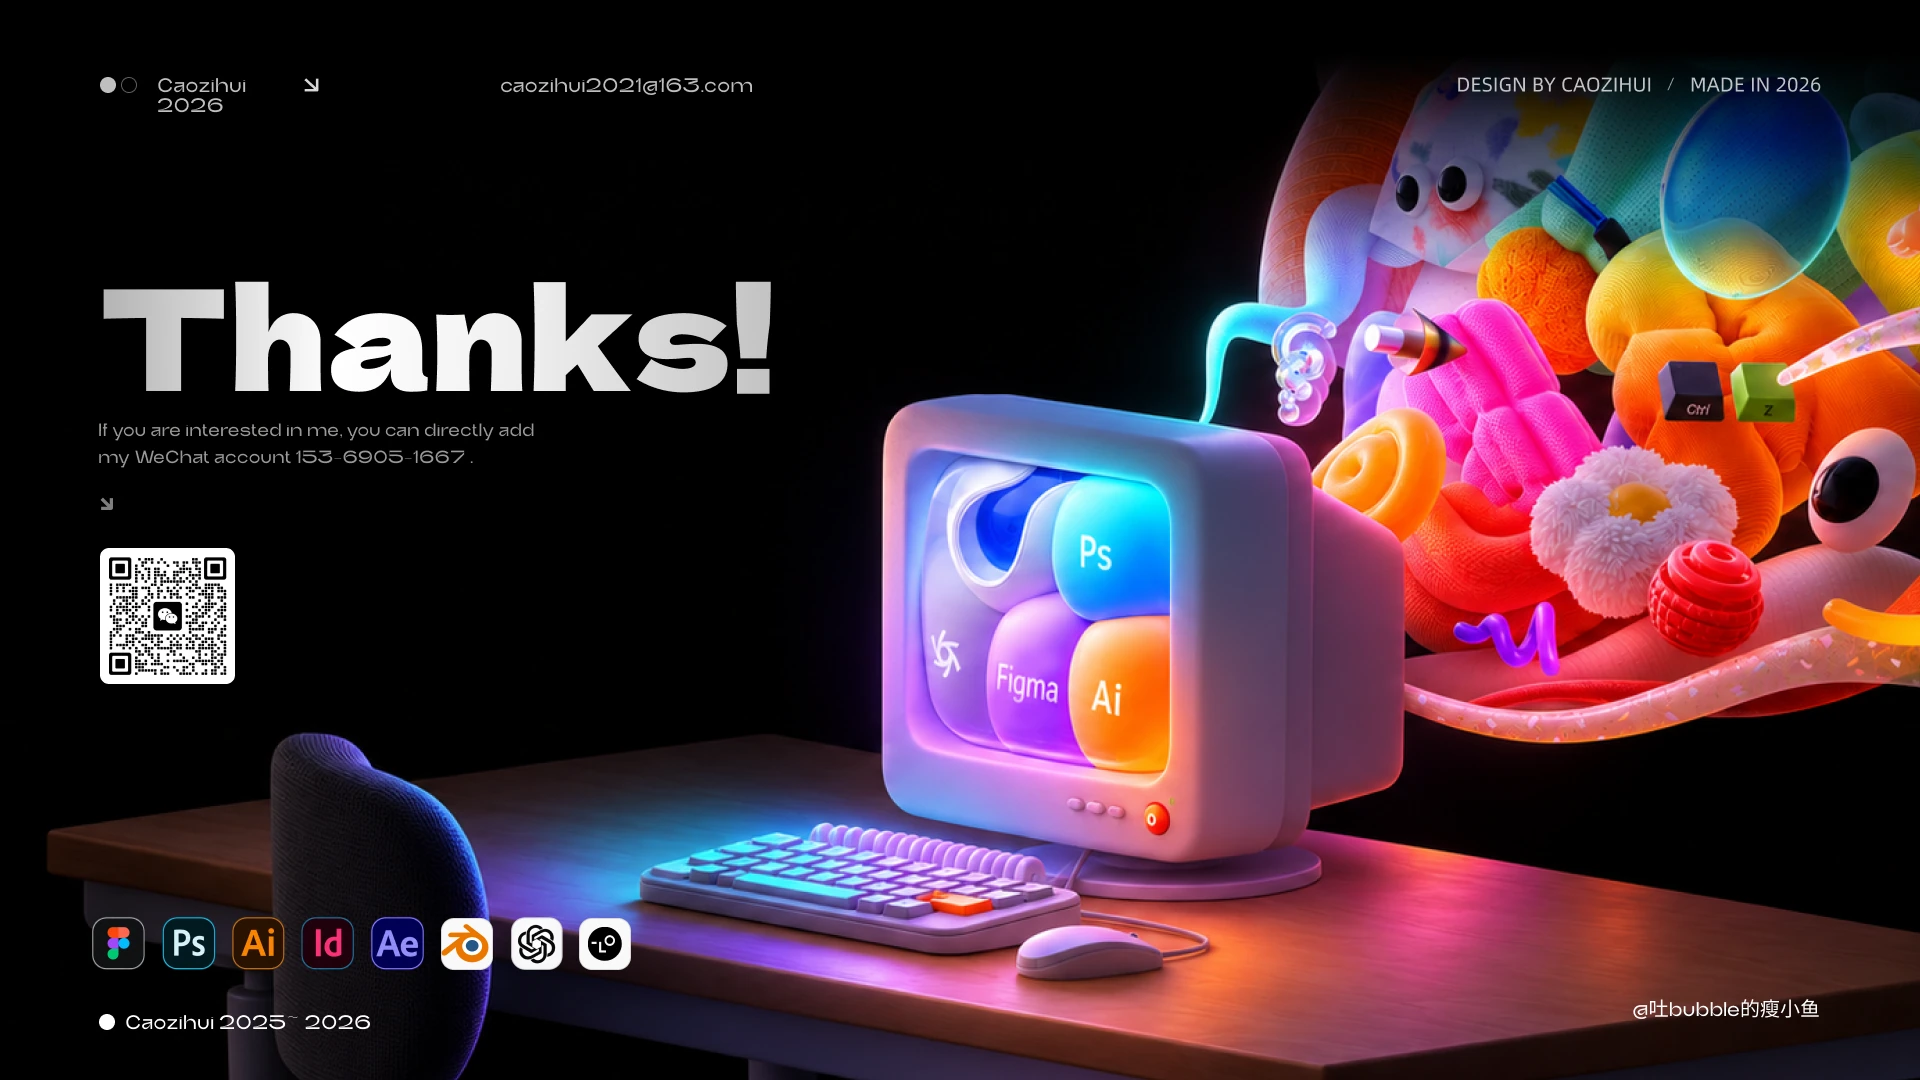
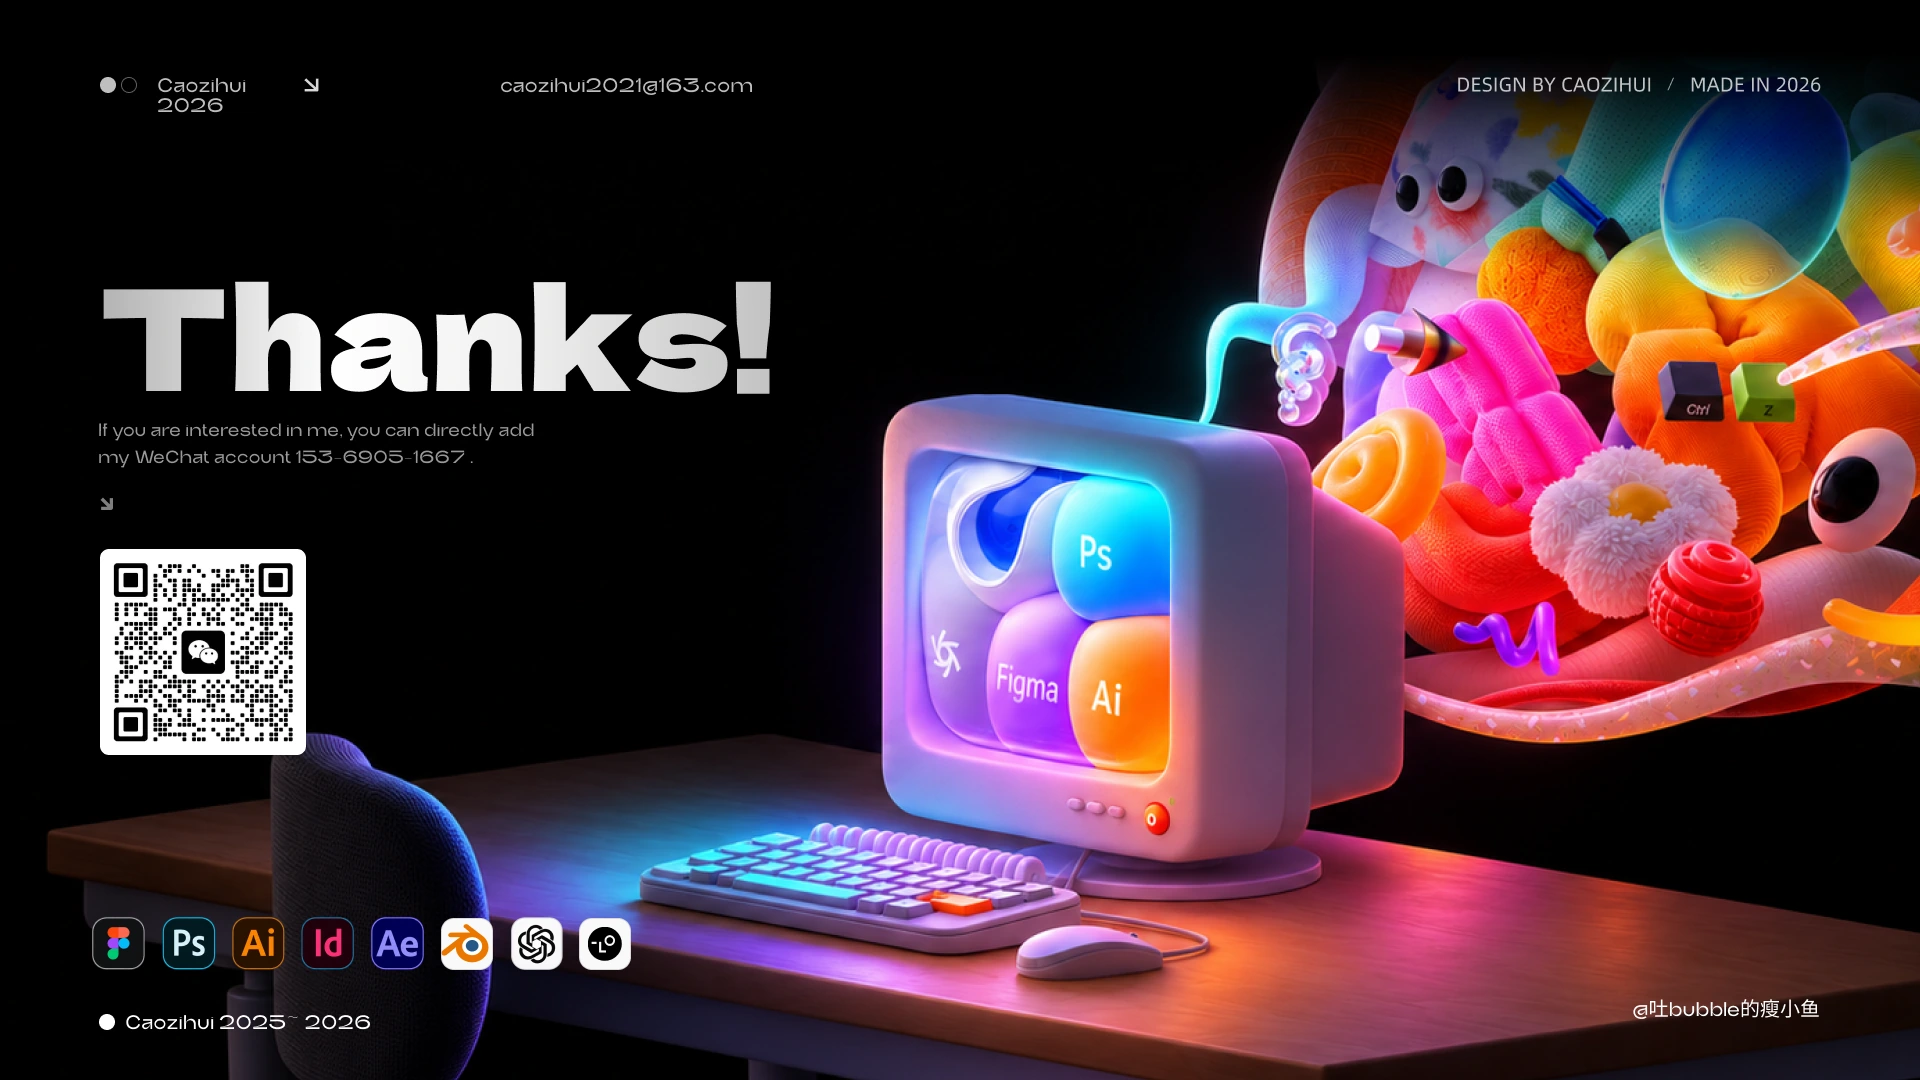
Link to the refreshed contact cover from the portfolio navigation

Changed region(s): [[0.0312, 0.4889, 0.1562, 0.7028]]

diff --git a/brand-portfolio-book.js b/brand-portfolio-book.js
@@ -1,6 +1,7 @@
 import { createMobileAbout } from './brand-mobile-about.js';
 
 const art = '/brand/portfolio-2026/';
+const release = new URL(import.meta.url).search;
 const email = 'caozihui2021@163.com';
 const sections = [['home', '封面'], ['about', '简介'], ['collection', '作品目录'], ['contact', '封底']];
 const directoryCards = [
@@ -21,7 +22,7 @@ export function createPortfolioBook(React, projects, ProjectViewer, unlockHouseS
 
   function image(file, alt, eager = false) {
     return h('img', {
-      className: 'portfolio-book-art', src: art + file + '.webp', width: 1920, height: 1080,
+      className: 'portfolio-book-art', src: art + file, width: 1920, height: 1080,
       loading: eager ? 'eager' : 'lazy', decoding: 'async', fetchPriority: eager ? 'high' : undefined, alt,
     });
   }
@@ -44,22 +45,23 @@ export function createPortfolioBook(React, projects, ProjectViewer, unlockHouseS
       h('div', { className: 'portfolio-book' },
         h('nav', { className: 'portfolio-book-nav', 'aria-label': '作品集导航' },
           sections.map(([id, label]) => h('a', { key: id, href: '#' + id }, label)),
+          h('a', { className: 'portfolio-book-contact-nav', href: '#contact' }, '联系我'),
         ),
         h('main', { className: 'portfolio-book-pages' },
           h('section', { id: 'home', className: 'portfolio-book-page', 'aria-labelledby': 'book-title' },
             h('h1', { id: 'book-title', className: 'brand-case-title' }, '曹子慧 · 2026 设计作品集'),
-            image('cover', '2026 设计作品集封面，霓虹灯照亮桌上的复古电脑和彩色公仔', true),
+            image('cover.webp', '2026 设计作品集封面，霓虹灯照亮桌上的复古电脑和彩色公仔', true),
           ),
           h('section', { id: 'about', className: 'portfolio-book-page', 'aria-label': '个人简介与工作经历' },
             h(MobileAbout, { art, email }),
             h('a', { className: 'portfolio-book-enlarge', href: art + 'about.webp', target: '_blank', rel: 'noopener', 'aria-label': '查看原尺寸的个人简介与工作经历' },
-              image('about', 'Hi，I am 曹子慧！个人简介、照片与工作经历')),
+              image('about.webp', 'Hi，I am 曹子慧！个人简介、照片与工作经历')),
             h('p', { className: 'brand-case-title' }, '曹子慧，北京理工大学视觉传达设计本科，具备两年互联网视觉设计经验。在网易有道旗下的有道领世担任视觉设计师，负责咨询销售部与校招业务线。曾在高途教育科技集团担任视觉设计实习生。'),
             contactLink([1031, 165, 264, 64], 'tel:+8615369051667', '致电曹子慧，153-6905-1667'),
             contactLink([1320, 165, 382, 64], 'mailto:' + email, '发送邮件至 ' + email),
           ),
           h('section', { id: 'collection', className: 'portfolio-book-page', 'aria-label': '作品目录' },
-            image('contents', '作品目录，品牌设计、运营设计、AIGC探索和其他设计'),
+            image('contents.webp', '作品目录，品牌设计、运营设计、AIGC探索和其他设计'),
             ...directoryCards.map(({ name, rect }, index) => h('button', {
               key: index, type: 'button', className: 'portfolio-book-hotspot portfolio-book-project', style: bounds(rect),
               title: name, 'aria-label': '查看' + name + '作品', 'aria-haspopup': 'dialog',
@@ -68,9 +70,11 @@ export function createPortfolioBook(React, projects, ProjectViewer, unlockHouseS
           ),
           h('footer', { id: 'contact', className: 'portfolio-book-page', 'aria-label': '封底与联系方式' },
             h('span', { id: 'back-cover' }),
-            image('closing', '封底，Thanks！左侧附有联系二维码'),
-            contactLink([495, 65, 230, 40], 'mailto:' + email, '发送邮件至 ' + email),
-            h('a', { className: 'portfolio-book-hotspot', style: bounds([100, 548, 135, 136]), href: art + 'wechat-qr.png', target: '_blank', rel: 'noopener', 'aria-label': '放大微信联系二维码' }),
+            h('div', { className: 'portfolio-book-closing-art' },
+              image('closing.webp' + release, '封底，Thanks！左侧附有微信联系二维码'),
+              contactLink([493, 69, 267, 36], 'mailto:' + email, '发送邮件至 ' + email),
+              h('a', { className: 'portfolio-book-hotspot portfolio-book-qr', style: bounds([100, 549, 206, 206]), href: art + 'wechat-qr.png', target: '_blank', rel: 'noopener', 'aria-label': '放大微信联系二维码' }),
+            ),
           ),
         ),
       ),

diff --git a/brand-portfolio-book.css b/brand-portfolio-book.css
@@ -54,6 +54,10 @@ html:has(.portfolio-book) { scroll-padding-top: 0; }
 }
 
 .portfolio-book-nav a:hover { color: #fff; text-decoration: underline; text-underline-offset: 4px; }
+.portfolio-book-contact-nav { margin-inline-start: auto; }
+@media (max-width: 380px) {
+  .portfolio-book-nav { column-gap: 1vw; }
+}
 .native-project-viewer { scroll-padding-top: var(--portfolio-nav-height); }
 .native-project-viewer > .viewer-nav > span { min-width: 0; }
 .native-project-viewer > .viewer-nav button {
@@ -75,6 +79,8 @@ html:has(.portfolio-book) { scroll-padding-top: 0; }
 .world-cover-nav a { color: inherit; }
 .portfolio-book-pages { max-width: 1920px; margin-inline: auto; }
 .portfolio-book-page { position: relative; scroll-margin-top: var(--portfolio-nav-height); }
+#contact.portfolio-book-page:target { min-height: calc(100dvh - var(--portfolio-nav-height)); }
+.portfolio-book-closing-art { position: relative; }
 .portfolio-book-page > #back-cover { position: absolute; inset: 0 auto auto 0; scroll-margin-top: var(--portfolio-nav-height); }
 .portfolio-book-art { width: 100%; height: auto; display: block; }
 .portfolio-book-enlarge { display: block; cursor: zoom-in; }
@@ -105,6 +111,15 @@ html:has(.portfolio-book) { scroll-padding-top: 0; }
 
 @media (max-width: 600px) {
   .world-cover-nav a span { display: none; }
+  .portfolio-book-qr::after {
+    content: '';
+    position: absolute;
+    left: 50%;
+    top: 50%;
+    width: max(100%, 44px);
+    height: max(100%, 44px);
+    transform: translate(-50%, -50%);
+  }
   .portfolio-book-contact::after {
     content: '';
     position: absolute;
